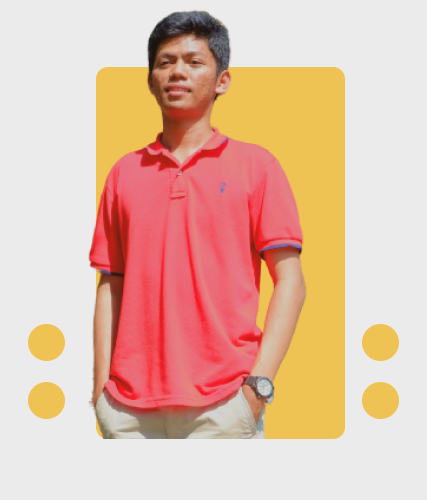
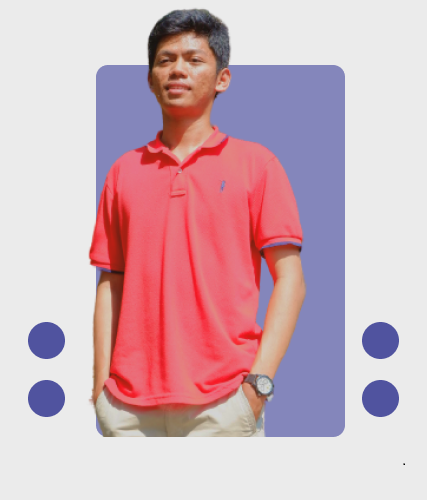
init: color

diff --git a/src/components/Sosmed.jsx b/src/components/Sosmed.jsx
@@ -1,0 +1,40 @@
+import React from 'react';
+import { makeStyles } from '@material-ui/core/styles';
+import BottomNavigation from '@material-ui/core/BottomNavigation';
+import BottomNavigationAction from '@material-ui/core/BottomNavigationAction';
+import RestoreIcon from '@material-ui/icons/Restore';
+import FavoriteIcon from '@material-ui/icons/Favorite';
+import LocationOnIcon from '@material-ui/icons/LocationOn';
+import { Facebook, Instagram, LinkedIn, Twitter } from '@material-ui/icons';
+
+const useStyles = makeStyles({
+  root: {
+    width: 500,
+    backgroundColor: '#EBEBEB',
+  },
+  icon: {
+      width: 30,
+      height: 30
+  }
+});
+
+export default function SimpleBottomNavigation() {
+  const classes = useStyles();
+  const [value, setValue] = React.useState(0);
+
+  return (
+    <BottomNavigation
+      value={value}
+      onChange={(event, newValue) => {
+        setValue(newValue);
+      }}
+      showLabels
+      className={classes.root}
+    >
+      <BottomNavigationAction href="https://www.instagram.com/gazali_saleh/" label="Instagram" icon={<Instagram className={classes.icon}/>} />
+      <BottomNavigationAction href="https://linkedin.com/in/muh-gazali-saleh-6a3514191/" label="Linkedin" icon={<LinkedIn className={classes.icon}/>} />
+      <BottomNavigationAction href="https://twitter.com/gazalisaleh78" label="Twitter" icon={<Twitter className={classes.icon}/>} />
+      <BottomNavigationAction href="https://www.facebook.com/gazali6424li" label="Facebook" icon={<Facebook className={classes.icon}/>} />
+    </BottomNavigation>
+  );
+}

diff --git a/src/components/Header.jsx b/src/components/Header.jsx
@@ -4,6 +4,7 @@ import { makeStyles } from '@material-ui/core/styles';
 import Avatar from '@material-ui/core/Avatar';
 import Container from '@material-ui/core/Container';
 import Grid from '@material-ui/core/Grid';
+import Sosmed from '../components/Sosmed';
 import Limitations from '../components/Limitations';
 
 const background = require("../assets/img/mainheader.png");
@@ -21,10 +22,11 @@ const useStyles = makeStyles((theme) => ({
     title: {
         fontWeight: 'bold',
         paddingBottom: theme.spacing(2),
-        color: '#EFC254'
+        color: '#50539F'
     },
     description: {
-        lineHeight: 2.3
+        lineHeight: 2.3,
+        paddingBottom: 30
     },
     large: {
         width: theme.spacing(20),
@@ -58,6 +60,7 @@ export default function Header() {
                             I'm a <b>BEGINNER WEB DEVELOPER</b> and <b>NETWORK ENGINEER</b> from <b>MAKASSAR</b>, Indonesia.
                             I love to meet new people, experiencing new things from them and building my <b>SOCIAL NETWORK</b>.
                         </Typography>
+                        <Sosmed/>
                     </Grid>
                     <Grid item xs={12} md={5}>
                         <img src={require("../assets/img/me.png")} />

diff --git a/src/components/Bisa.jsx b/src/components/Bisa.jsx
@@ -19,7 +19,7 @@ const useStyles = makeStyles((theme) => ({
     /* borderRadius: 20, */
     padding: theme.spacing(5),
     textAlign: 'center',
-    backgroundColor: '#EFC254',
+    backgroundColor: '#50539F',
     color: '#fff',
     height: '350px',
   },
@@ -33,7 +33,7 @@ const useStyles = makeStyles((theme) => ({
   },
   spacing: {
     paddingBottom: theme.spacing(5),
-    paddingTop: 30
+    paddingTop: 100
   },
 }));
 
@@ -43,7 +43,7 @@ export default function CenteredGrid() {
   return (
     <div className={classes.root}>
       <Grid item xs>
-                    <Typography variant="h3" align="left" color="textPrimary" className={classes.spacing}>
+                    <Typography variant="h4" align="left" color="textPrimary" className={classes.spacing}>
                         <b>What can i do?</b>
                     </Typography>
       </Grid>

diff --git a/src/components/Resume.jsx b/src/components/Resume.jsx
@@ -6,7 +6,7 @@ import ResumeCard from './Card/Resume';
 
 const useStyles = makeStyles((theme) => ({
     containerSpacing: {
-        paddingTop: theme.spacing(5),
+        paddingTop: theme.spacing(15),
         paddingBottom: theme.spacing(6),
     },
     spacing: {

diff --git a/src/components/Footer.jsx b/src/components/Footer.jsx
@@ -18,7 +18,7 @@ function Copyright() {
 
 const useStyles = makeStyles((theme) => ({
     footer: {
-        backgroundColor: '#EFC254',
+        backgroundColor: '#50539F',
         padding: theme.spacing(3),
         color: '#fff'
     },
